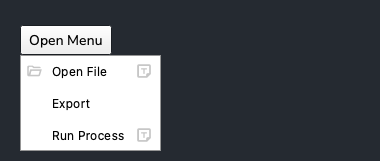
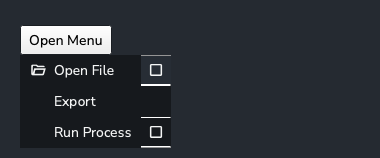
feat(ui): add contextual menu style and update optional action widget
Add Contextual_Menu variant to QFrameVariants and corresponding style
definition in ayon_style.json. Update OptionalActionWidget to use
AYFrame with the new contextual-menu variant and dynamically retrieve
icon size from style configuration instead of hardcoding.

Changed region(s): [[0.0289, 0.3291, 0.4632, 0.9367], [0.0579, 0.2025, 0.2605, 0.3038], [0.0579, 0.1519, 0.2895, 0.1772]]

diff --git a/client/ayon_core/ui/components/option_action.py b/client/ayon_core/ui/components/option_action.py
@@ -25,8 +25,10 @@ import logging
 
 from qtpy import QtCore, QtGui, QtWidgets
 
-from .label import AYLabel
+from ..style_types import get_ayon_style
 from .buttons import AYButton
+from .frame import AYFrame
+from .label import AYLabel
 from .layouts import AYHBoxLayout
 
 logger = logging.getLogger(__name__)
@@ -42,13 +44,14 @@ class OptionBox(AYButton):
     def __init__(
         self,
         icon_name: str = "check_box_outline_blank",
+        icon_size: int = 16,
         parent: QtWidgets.QWidget | None = None,
     ) -> None:
         super().__init__(
             parent,
             variant=AYButton.Variants.Optional_Action,
             icon=icon_name,
-            icon_size=16,
+            icon_size=icon_size,
             fixed_width=False,
         )
 
@@ -73,14 +76,19 @@ class OptionalActionWidget(QtWidgets.QWidget):
     ) -> None:
         super().__init__(parent)
 
-        body_widget = QtWidgets.QWidget(self)
+        _style = get_ayon_style().model.get_style(
+            "QLabel", variant=AYLabel.Variants.Optional_Action.value
+        )
+        icon_size = _style.get("icon-size", 16)
+
+        body_widget = AYFrame(self, variant=AYFrame.Variants.Contextual_Menu)
         body_widget.setObjectName("OptionalActionBody")
 
         label_wdgt = AYLabel(
             label,
             variant=AYLabel.Variants.Optional_Action,
             icon=icon_name,
-            icon_size=16,
+            icon_size=icon_size,
             icon_fill=False,
             parent=body_widget,
         )
@@ -89,7 +97,7 @@ class OptionalActionWidget(QtWidgets.QWidget):
             QtWidgets.QSizePolicy.Policy.MinimumExpanding,
         )
 
-        option_box = OptionBox(parent=body_widget)
+        option_box = OptionBox(icon_size=icon_size, parent=body_widget)
         option_box.setObjectName("OptionalActionOption")
         option_box.setFixedSize(30, 30)
 

diff --git a/client/ayon_core/ui/variants.py b/client/ayon_core/ui/variants.py
@@ -71,6 +71,7 @@ class QFrameVariants(Enum):
     Entity_Card = "entity-card"
     Entity_Card_Tag = "entity-card-tag"
     Surface = "surface"
+    Contextual_Menu = "contextual-menu"
     Debug_R = "debug-r"
     Debug_G = "debug-g"
     Debug_B = "debug-b"